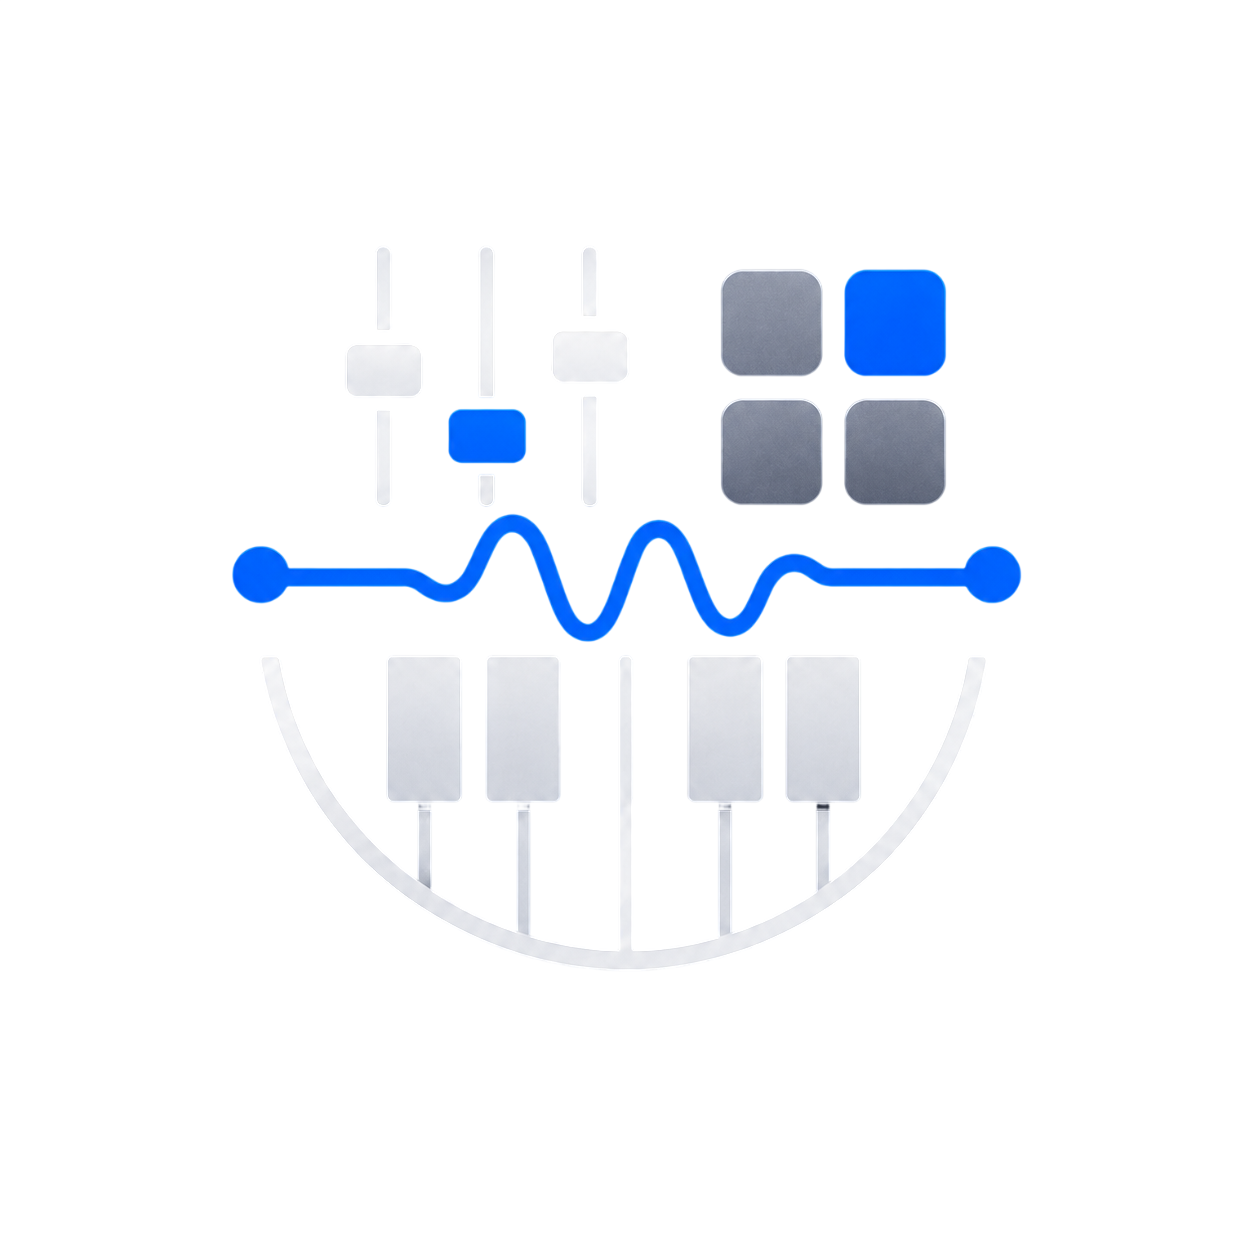
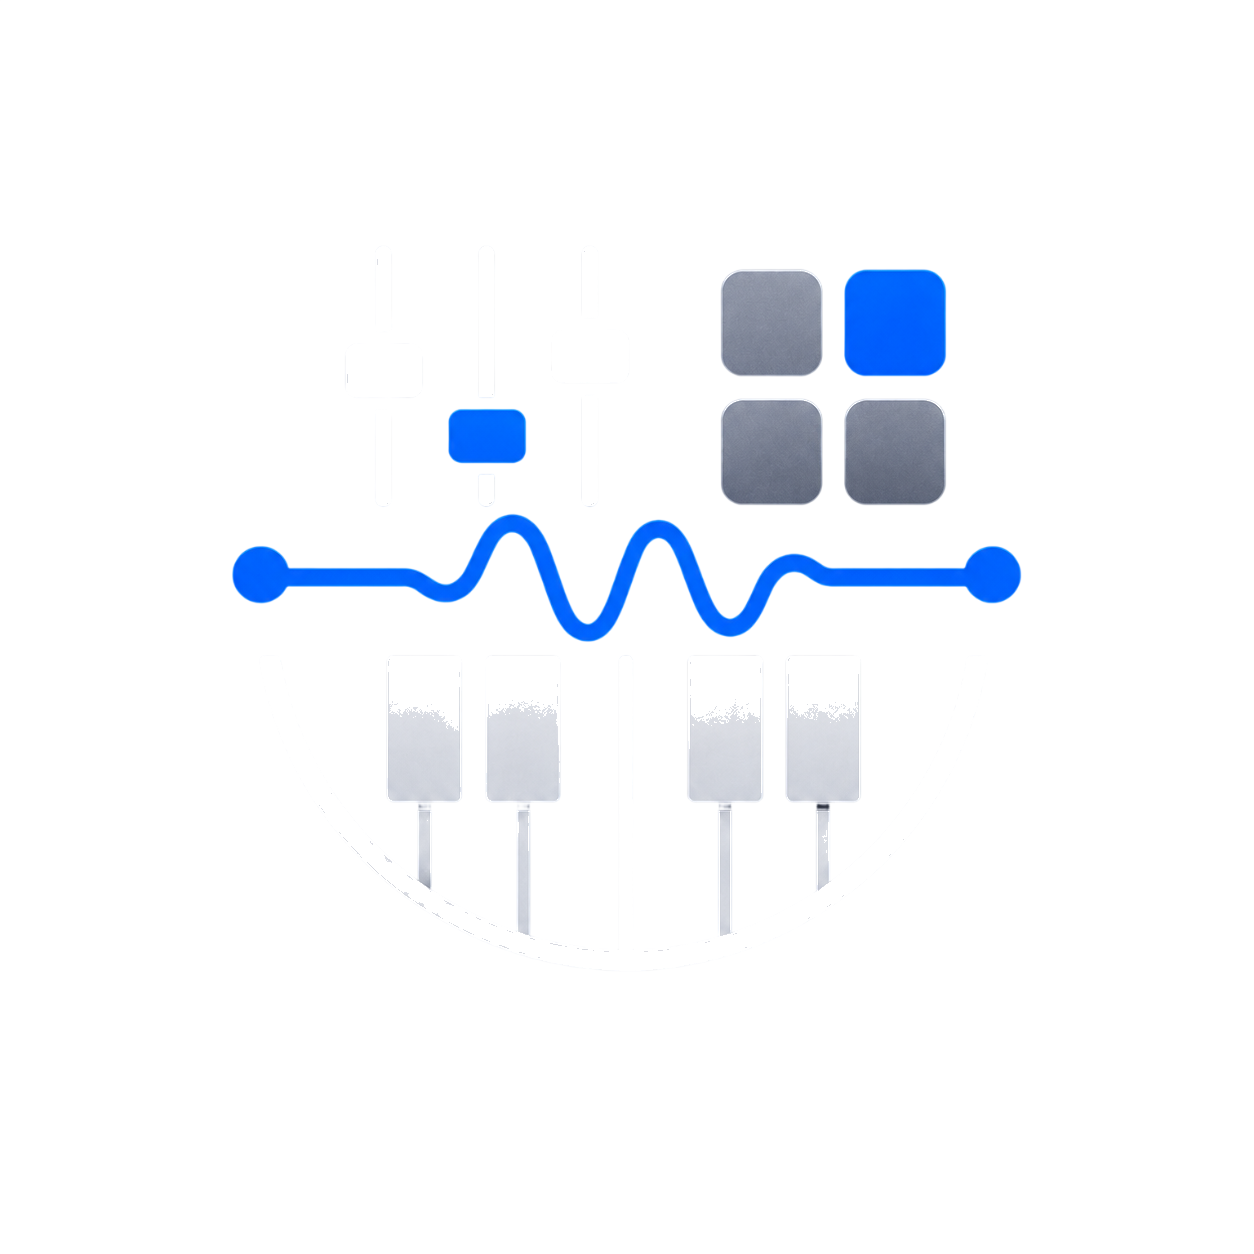
feat(impeccable): install gsd-impeccable skill and generate true transparent PNGs for isotipo and logo1, removing all AI look and white boxes

diff --git a/index.html b/index.html
@@ -90,7 +90,7 @@
           <span>📁</span>
         </div>
         <div class="sf2-uploader-zone" id="sf2DropZone">
-          <img src="assets/isotipo.png" alt="BenSF2" class="sf2-logo-img" style="width: 72px; height: 72px; object-fit: contain; mix-blend-mode: screen; opacity: 0.9; margin-bottom: 4px;">
+          <img src="assets/isotipo.png" alt="BenSF2" class="sf2-logo-img" style="width: 72px; height: 72px; object-fit: contain; opacity: 0.9; margin-bottom: 4px; filter: drop-shadow(0 0 12px rgba(0, 242, 254, 0.25)); transition: transform 0.25s ease;">
           <div class="sf2-uploader-text">Carregar Arquivo .SF2</div>
           <div class="sf2-uploader-sub">Arraste ou clique para selecionar</div>
           <input type="file" id="sf2FileInput" accept=".sf2" style="display: none;">

diff --git a/css/main.css b/css/main.css
@@ -94,8 +94,12 @@ body {
   height: 32px;
   width: 32px;
   object-fit: contain;
-  mix-blend-mode: screen;
-  filter: drop-shadow(0 0 6px rgba(0, 242, 254, 0.4));
+  filter: drop-shadow(0 0 8px rgba(0, 242, 254, 0.35));
+  transition: transform 0.2s cubic-bezier(0.16, 1, 0.3, 1);
+}
+
+.app-brand:hover .app-logo-img {
+  transform: scale(1.06);
 }
 
 .app-title {
